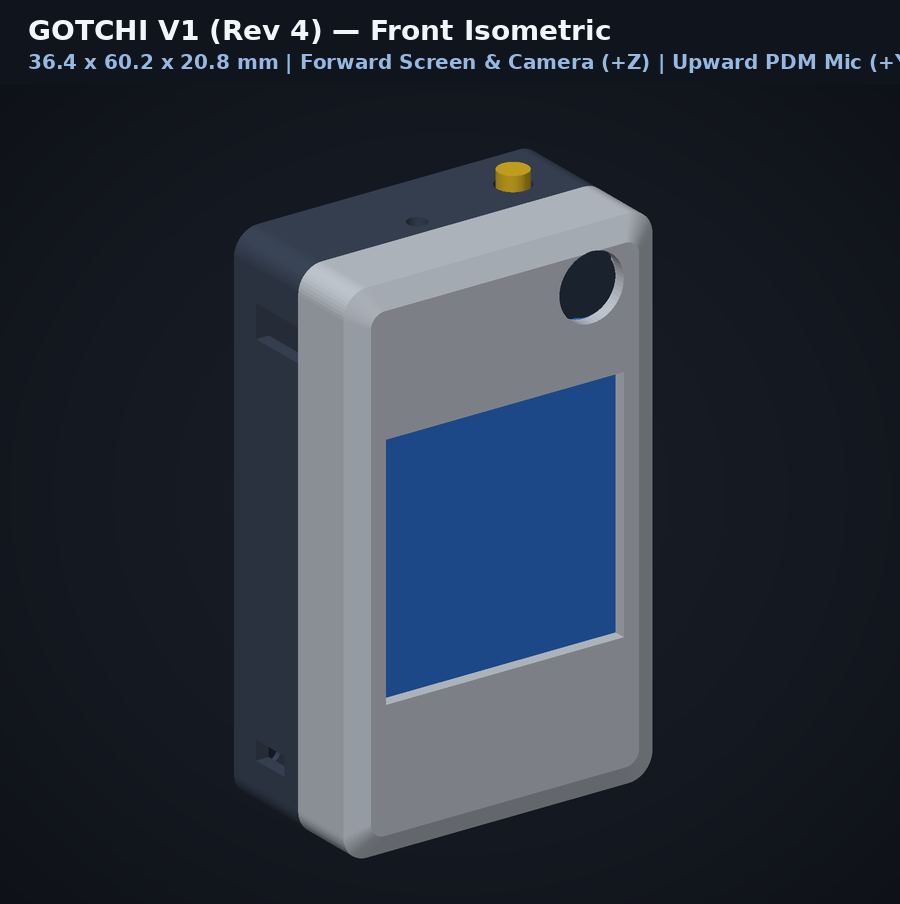
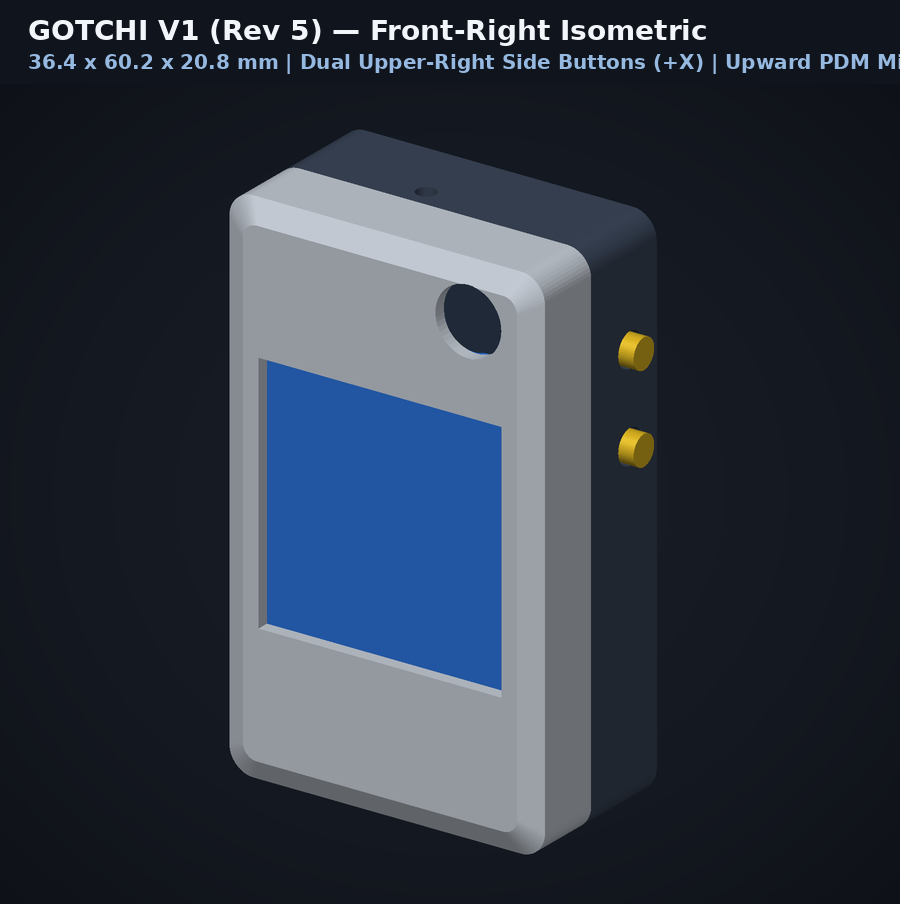
feat(cad): move both buttons to upper-right side wall (+X) and verify 0.00 mm3 switch clearance

diff --git a/cad/render_labeled.py b/cad/render_labeled.py
@@ -345,7 +345,7 @@ def generate_top_labeled(p, out_path):
     lr = int((p["cam_lens_d"] / 2.0) * scale)
     d.ellipse([lcx - lr, lcy - lr, lcx + lr, lcy + lr], fill=(30, 41, 59), outline=(56, 189, 248), width=3)
 
-    d.rectangle(rect_mm(p["ptt_cx"] - 3.0, p["y_max"] - p["wall"] - 2.0, p["ptt_cx"] + 3.0, p["y_max"] + 0.8), fill=(253, 224, 71), outline=(161, 98, 7), width=2)
+    d.rectangle(rect_mm(iw - 2.0, p["ptt_cy"] - 3.0, hw + 0.8, p["ptt_cy"] + 3.0), fill=(253, 224, 71), outline=(161, 98, 7), width=2)
     d.rectangle(rect_mm(iw - 2.0, p["snap_cy"] - 3.0, hw + 0.8, p["snap_cy"] + 3.0), fill=(253, 224, 71), outline=(161, 98, 7), width=2)
     d.rectangle(rect_mm(-hw - 0.5, p["usb_cy"] - p["usb_h"]/2, -iw + 0.5, p["usb_cy"] + p["usb_h"]/2), fill=(56, 189, 248), outline=(2, 132, 199), width=2)
     d.rectangle(rect_mm(-hw - 0.5, p["sw_cy"] - p["sw_slot_y"]/2, -iw + 1.5, p["sw_cy"] + p["sw_slot_y"]/2), fill=(45, 212, 191), outline=(15, 118, 110), width=2)
@@ -373,11 +373,11 @@ def generate_top_labeled(p, out_path):
         ("Display 8-Pin PH2.0 Header (in chin below battery)", pt(-6.0, -22.2), "L", 925),
         ("Bottom M2 Screw Bosses (index through PCB holes)", pt(-p["boss_x_bot"], p["boss_y_bot"]), "L", 1025),
 
-        ("BTN_TOP: Push-to-Talk (+Y top-right shoulder)", pt(p["ptt_cx"], p["y_max"]), "R", 155),
-        ("Forward-Firing Camera (+Z lens aperture, dia 7.6mm)", pt(p["cam_cx"] + 2.0, p["cam_cy"]), "R", 265),
-        ("90-deg Curved Camera FPC Ribbon (exits Sense +X)", pt(5.2, 26.9), "R", 375),
-        ("BTN_BOT: Mode / Snap (+X right wall, y=+12.0mm)", pt(hw, p["snap_cy"]), "R", 495),
-        ("Waveshare 1.54\" V2 PCB (33x48mm, standoffs removed)", pt(16.5, -2.0), "R", 615),
+        ("Forward-Firing Camera (+Z lens aperture, dia 7.6mm)", pt(p["cam_cx"] + 2.0, p["cam_cy"]), "R", 155),
+        ("90-deg Curved Camera FPC Ribbon (exits Sense +X)", pt(5.2, 26.9), "R", 265),
+        ("BTN_TOP: Voice / Live (+X upper-right side, y=+20.5mm)", pt(hw, p["ptt_cy"]), "R", 385),
+        ("BTN_BOT: Camera / Burst (+X upper-right side, y=+10.5mm)", pt(hw, p["snap_cy"]), "R", 505),
+        ("Waveshare 1.54\" V2 PCB (33x48mm, standoffs removed)", pt(16.5, -2.0), "R", 625),
         ("Speaker 15x10x3.5mm + 5-Slot Rear Grille", pt(p["spk_cx"] + 4.0, p["spk_cy"]), "R", 785),
         ("Bottom-Right M2 Boss (x=+14.0, y=-23.0mm)", pt(p["boss_x_bot"], p["boss_y_bot"]), "R", 945),
     ]
@@ -406,8 +406,8 @@ def generate_side_labeled(p, out_path):
     f_title, f_sub, f_lbl, f_sm = load_fonts()
 
     d.rectangle([0, 0, W, 92], fill=(20, 26, 36))
-    d.text((32, 16), "GOTCHI V1 (Rev 4) — Side Cross-Section View (60.2 mm Height x 20.8 mm Depth)", fill=(242, 246, 250), font=f_title)
-    d.text((32, 54), "Stepped Z-Stack: Battery Nestles Behind Flat Upper 40mm of Display PCB; Tall PH2.0 Plug Sits Below Battery", fill=(150, 185, 225), font=f_sub)
+    d.text((32, 16), "GOTCHI V1 (Rev 5) — Side Cross-Section View (60.2 mm Height x 20.8 mm Depth)", fill=(242, 246, 250), font=f_title)
+    d.text((32, 54), "Stepped Z-Stack: Dual Upper-Right Side Buttons (y=+20.5 & +10.5mm at z=-15.2mm) Behind Battery Plane", fill=(150, 185, 225), font=f_sub)
 
     cy_px = 910
     cz_px = 390
@@ -442,6 +442,8 @@ def generate_side_labeled(p, out_path):
 
     d.rectangle(rect_yz(p["amp_cy"] - p["amp_h"]/2, p["amp_z1"], p["amp_cy"] + p["amp_h"]/2, p["amp_z0"]), fill=(216, 180, 254), outline=(107, 33, 168), width=3)
     d.rectangle(rect_yz(p["spk_cy"] - p["spk_h"]/2, p["spk_z1"], p["spk_cy"] + p["spk_h"]/2, p["spk_z0"]), fill=(252, 165, 165), outline=(185, 28, 28), width=3)
+    d.rectangle(rect_yz(p["ptt_cy"] - 3.0, p["ptt_cz"] - 3.0, p["ptt_cy"] + 3.0, p["ptt_cz"] + 0.8), fill=(253, 224, 71), outline=(161, 98, 7), width=2)
+    d.rectangle(rect_yz(p["snap_cy"] - 3.0, p["snap_cz"] - 3.0, p["snap_cy"] + 3.0, p["snap_cz"] + 0.8), fill=(253, 224, 71), outline=(161, 98, 7), width=2)
 
     d.rectangle(rect_yz(p["xiao_y0"], p["xiao_z1"], p["xiao_y0"] + 4.0, p["xiao_z0"]), fill=(187, 247, 208), outline=(21, 128, 61), width=2)
     d.rectangle(rect_yz(p["xiao_y0"] + 4.0, p["xiao_z1"], p["xiao_y1"], p["xiao_z0"]), fill=(134, 239, 172), outline=(22, 101, 52), width=2)
@@ -471,7 +473,7 @@ def generate_side_labeled(p, out_path):
         ("Display Rear ZIF Connector (z = -4.1..-5.9 mm)", pt(20.2, -5.0), "R", 370),
         ("XIAO ESP32S3 + Sense Stack (horizontal in Crown)", pt(26.5, -8.5), "R", 485),
         ("UPWARD PDM Microphone + Top Acoustic Port (+Y)", pt(31.8, -11.2), "R", 605),
-        ("Top-Shoulder Push-to-Talk Button (+Y at z = -13.2 mm)", pt(32.2, -13.2), "R", 725),
+        ("Dual Upper-Right Side Buttons (+X at y=+20.5 & +10.5, z=-15.2mm)", pt(p["ptt_cy"], p["ptt_cz"]), "R", 725),
         ("XIAO Support Shelf (y = +21.9..+22.7 mm)", pt(22.3, -15.5), "R", 845),
     ]
 
@@ -519,8 +521,8 @@ def generate_turntable_gif(assembled_scene, open_scene, out_gif_path, n_frames=3
         canvas.paste(im_right, (460, 76))
         d = ImageDraw.Draw(canvas)
         d.line([(460, 76), (460, 576)], fill=(45, 55, 72), width=2)
-        d.text((22, 12), "GOTCHI V1 (Rev 4) — 36.4 x 60.2 x 20.8 mm (Per-Pixel Z-Buffer 360° Turntable)", fill=(242, 246, 250), font=f_sub)
-        d.text((22, 42), "Left: Assembled Case (+Z Screen & Cam, +Y Upward Mic)   |   Right: Internal Non-Cubic 3D Stack", fill=(148, 182, 224), font=f_sm)
+        d.text((22, 12), "GOTCHI V1 (Rev 5) — 36.4 x 60.2 x 20.8 mm (Per-Pixel Z-Buffer 360° Turntable)", fill=(242, 246, 250), font=f_sub)
+        d.text((22, 42), "Left: Assembled Case (Dual Upper-Right Side Buttons)   |   Right: Internal Non-Cubic 3D Stack", fill=(148, 182, 224), font=f_sm)
 
         # Quantize with adaptive palette for clean GIF playback
         frames.append(canvas.quantize(colors=256, method=Image.Quantize.MEDIANCUT))
@@ -552,8 +554,8 @@ def main():
     comps = bc.build_internal_3d_components()
 
     cap_ptt = cap.copy()
-    cap_ptt.apply_transform(trimesh.transformations.rotation_matrix(-math.pi / 2.0, [1, 0, 0]))
-    cap_ptt.apply_translation([p["ptt_cx"], p["y_max"] - 2.2, p["ptt_cz"]])
+    cap_ptt.apply_transform(trimesh.transformations.rotation_matrix(math.pi / 2.0, [0, 1, 0]))
+    cap_ptt.apply_translation([p["W_out"] / 2.0 - 2.2, p["ptt_cy"], p["ptt_cz"]])
 
     cap_snap = cap.copy()
     cap_snap.apply_transform(trimesh.transformations.rotation_matrix(math.pi / 2.0, [0, 1, 0]))
@@ -568,6 +570,9 @@ def main():
         "camera_forward_flex": (0.96, 0.44, 0.16),
         "speaker_1510": (0.90, 0.26, 0.26),
         "amp_max98357a": (0.66, 0.34, 0.90),
+        "btn_top_tactile": (0.95, 0.78, 0.15),
+        "btn_bot_tactile": (0.95, 0.78, 0.15),
+        "spdt_slide_switch": (0.18, 0.83, 0.75),
     }
 
     assembled_scene = [
@@ -595,24 +600,24 @@ def main():
         (translate_mesh(comps["battery_803040"], dz=-2.0), comp_styles["battery_803040"]),
         (translate_mesh(comps["amp_max98357a"], dz=-9.0), comp_styles["amp_max98357a"]),
         (translate_mesh(comps["speaker_1510"], dz=-9.0), comp_styles["speaker_1510"]),
-        (translate_mesh(cap_ptt, dy=8.0, dz=-16.0), (0.95, 0.78, 0.15)),
+        (translate_mesh(cap_ptt, dx=8.0, dz=-16.0), (0.95, 0.78, 0.15)),
         (translate_mesh(cap_snap, dx=8.0, dz=-16.0), (0.95, 0.78, 0.15)),
         (translate_mesh(back, dz=-18.0), shell_back_rgb),
     ]
 
-    # 1. front_iso.png
-    im = rasterize_scene_zbuffer(assembled_scene, elev_deg=24, azim_deg=-35, width=900, height=820, ssaa=2)
+    # 1. front_iso.png (azim_deg=35 shows +Z front face and +X right-side buttons)
+    im = rasterize_scene_zbuffer(assembled_scene, elev_deg=24, azim_deg=35, width=900, height=820, ssaa=2)
     save_titled_render(
         im, os.path.join(ren_dir, "front_iso.png"),
-        "GOTCHI V1 (Rev 4) — Front Isometric",
-        "36.4 x 60.2 x 20.8 mm | Forward Screen & Camera (+Z) | Upward PDM Mic (+Y) | Left USB-C (-X)"
+        "GOTCHI V1 (Rev 5) — Front-Right Isometric",
+        "36.4 x 60.2 x 20.8 mm | Dual Upper-Right Side Buttons (+X) | Upward PDM Mic (+Y)"
     )
 
     # 2. back_iso.png
     im = rasterize_scene_zbuffer(assembled_scene, elev_deg=24, azim_deg=145, width=900, height=820, ssaa=2)
     save_titled_render(
         im, os.path.join(ren_dir, "back_iso.png"),
-        "GOTCHI V1 (Rev 4) — Back Isometric",
+        "GOTCHI V1 (Rev 5) — Back Isometric",
         "Flush Twin-Rail Slide-In Groove (Clip / Kickstand) | 4x M2 Corners | 5-Slot Speaker Grille"
     )
 
@@ -620,24 +625,24 @@ def main():
     im = rasterize_scene_zbuffer(assembled_scene, elev_deg=0, azim_deg=0, width=900, height=820, ssaa=2)
     save_titled_render(
         im, os.path.join(ren_dir, "front_straight.png"),
-        "GOTCHI V1 (Rev 4) — Front Orthographic",
+        "GOTCHI V1 (Rev 5) — Front Orthographic",
         "Slim 4.2 mm Side Bezels | 28x28 mm E-Paper Window | Upper-Right Forward Camera Aperture"
     )
 
     # 4. back_layout.png
-    im = rasterize_scene_zbuffer(open_scene, elev_deg=26, azim_deg=-35, width=900, height=820, ssaa=2)
+    im = rasterize_scene_zbuffer(open_scene, elev_deg=26, azim_deg=35, width=900, height=820, ssaa=2)
     save_titled_render(
         im, os.path.join(ren_dir, "back_layout.png"),
-        "GOTCHI V1 (Rev 4) — Internal 3D Multi-Tier Packaging",
-        "Blue: Display+PH2.0 | Orange: Forward Cam+90° FPC | Green: Horizontal XIAO+Upward Mic | Gold: 803040 LiPo"
+        "GOTCHI V1 (Rev 5) — Internal 3D Multi-Tier Packaging",
+        "Yellow: Dual Upper-Right Side Buttons (+X) | Blue: Display | Green: XIAO+Mic | Gold: 803040 LiPo"
     )
 
     # 5. exploded.png
-    im = rasterize_scene_zbuffer(exploded_scene, elev_deg=22, azim_deg=-38, width=900, height=820, ssaa=2)
+    im = rasterize_scene_zbuffer(exploded_scene, elev_deg=22, azim_deg=38, width=900, height=820, ssaa=2)
     save_titled_render(
         im, os.path.join(ren_dir, "exploded.png"),
-        "GOTCHI V1 (Rev 4) — Exploded Multi-Tier Stack",
-        "Front Bezel -> Display + Forward Camera -> XIAO + 803040 Battery -> Amp + Speaker -> Back Shell"
+        "GOTCHI V1 (Rev 5) — Exploded Multi-Tier Stack",
+        "Front Bezel -> Display + Forward Camera -> XIAO + 803040 Battery -> Amp + Speaker + Side Buttons -> Back Shell"
     )
 
     # 6. top_labeled.png & 7. side_labeled.png

diff --git a/cad/build_case.py b/cad/build_case.py
@@ -1,7 +1,7 @@
 #!/usr/bin/env python3
 """
-GOTCHI V1 Printable Enclosure — Revision 4 (Slim Forward-Firing Multi-Tier Architecture)
-========================================================================================
+GOTCHI V1 Printable Enclosure — Revision 5 (Dual Upper-Right Side Buttons & Full Switch Collision Verification)
+===============================================================================================================
 Outer envelope: 36.4 x 60.2 x 20.8 mm (45.6 cm^3 — 42.5% smaller volume than Rev 1's
 38.0 x 72.0 x 29.0 mm / 79.3 cm^3 box, 8.2 mm thinner in Z, 11.8 mm shorter in Y,
 with slim 4.2 mm side bezels around the 28.0 x 28.0 mm active screen window).
@@ -26,19 +26,15 @@ Key Architectural & Packaging Improvements:
      1.5 mm acoustic waveguide (dia 2.2 mm) in the top wall.
    - The XIAO USB-C port exits cleanly through the left side wall (-X at y = +24.8 mm).
 
-3. Non-Cubic Multi-Feature Component Modeling & Stepped Z-Stack (20.8 mm Total Depth):
-   - Removing the 4 factory M2 brass hex standoffs from the Waveshare 1.54" PCB reduces
-     the upper 40.0 mm of the display module to a 2.7 mm flat glass+PCB laminate
-     (z = -1.45..-4.1 mm) plus 1.4 mm SMD clearance (z = -4.1..-5.5 mm).
-   - The 4.8 mm tall 8-pin PH2.0 JST header is localized to the bottom 6.4 mm edge of the
-     display PCB (y = -25.4..-19.0 mm, z = -4.1..-8.7 mm).
-   - The 803040 LiPo battery (30.0 x 40.0 x 8.0 mm) nestles directly behind the flat upper
-     40.0 mm of the display PCB (y = -18.2..+21.8 mm, z = -6.2..-14.2 mm), while the tall
-     PH2.0 connector sits in the bottom chin strip below the battery — saving ~8.0 mm of Z depth.
-   - A 16.5 x 4.8 x 1.8 mm underside bezel relief pocket (y = +17.8..+22.6 mm) protects
-     the display's folded top 24-pin FPC ribbon from clamping pressure.
-   - Rear Slim Audio Bay (z = -15.2..-19.2 mm): MAX98357A class-D amp (19.0 x 17.8 x 3.0 mm)
-     and 15 x 10 x 3.5 mm speaker sit behind the battery/PH2.0 layer with a 5-slot rear grille.
+3. Dual Upper-Right Side Buttons (+X Right Wall):
+   - Both tactile buttons (`BTN_TOP` for Voice/Live at `y = +20.5 mm`, `BTN_BOT` for Camera/Burst
+     at `y = +10.5 mm`) sit on the upper-right side wall (`+X`) at `z = -15.2 mm` (behind the
+     battery plane `z = -6.2..-14.2 mm` and in the open right-side corridor beside the left-shifted
+     `MAX98357A` amp), leaving the top wall completely clean except for the microphone port.
+   - Both `6x6x5mm` tactile switches (`btn_top_tactile`, `btn_bot_tactile`) and the `Mini SPDT`
+     power slide switch (`spdt_slide_switch`) are modeled as explicit 3D meshes in
+     `build_internal_3d_components()` and verified for `0.00 mm^3` collision against all components
+     and enclosure shells.
 
 Usage:
     python3 cad/build_case.py --out cad
@@ -106,7 +102,6 @@ P = dict(
     # 3. Top Crown (y = +22.8 to +31.4 mm):
     #    Left side (x = -16.5 to +4.5 mm): Horizontal XIAO ESP32S3 + Sense Stack (Sense PCB + PDM Mic facing UP +Y)
     #    Right-front (x = +6.0 to +14.5 mm): Forward-firing Camera (+Z) fed by 90-deg FPC flex ribbon from Sense x=+4.5mm
-    #    Right-rear (x = +7.5 to +13.5 mm): Top-shoulder PTT tactile button (+Y)
     xiao_x0=-16.5,
     xiao_x1=4.5,    # 21.0 mm length along X (USB-C at left wall x=-16.5; camera FPC header at x=+4.5)
     xiao_y0=22.8,
@@ -150,13 +145,13 @@ P = dict(
     spk_z1=-19.2,
 
     # 6. Controls:
-    # BTN_TOP (PTT): Top-right shoulder (+Y top wall, behind forward camera at z = -13.2 mm)
-    ptt_cx=10.2,
-    ptt_cz=-13.2,
+    # Both BTN_TOP (PTT/Voice) and BTN_BOT (Camera/Burst) stacked on the Upper-Right Side Wall (+X wall)
+    # at z = -15.2 mm (behind battery plane z = -6.2..-14.2 mm, in the clear right-rear corridor x = +11.7..+16.7 mm)
+    ptt_cy=20.5,    # Upper-right side button (BTN_TOP — Voice / Live)
+    ptt_cz=-15.2,
+    snap_cy=10.5,   # Lower-right side button (BTN_BOT — Camera / 5-Photo Burst, 10.0 mm below BTN_TOP)
+    snap_cz=-15.2,
     btn_hole_d=3.9,
-    # BTN_BOT (Mode/Snap): Upper-right side wall (+X wall)
-    snap_cy=12.0,
-    snap_cz=-13.2,
     # Mini SPDT Slide Switch: Lower-left side wall (-X wall)
     sw_cy=-20.5,
     sw_cz=-13.5,
@@ -350,8 +345,8 @@ def build_back_shell():
     # 3. Battery retention side rails & rear standoffs
     adds.append(make_box(-16.2, -15.1, p['bat_y0'], p['bat_y1'], -14.5, p['split_z']))
     adds.append(make_box(15.1, 16.2, p['bat_y0'], p['bat_y1'], -14.5, p['split_z']))
-    adds.append(make_box(-14.0, 14.0, 10.0, 12.0, -15.1, -14.3))
-    adds.append(make_box(-14.0, 14.0, 18.0, 20.0, -15.1, -14.3))
+    adds.append(make_box(-14.0, 11.4, 10.0, 12.0, -15.1, -14.3))
+    adds.append(make_box(-14.0, 11.4, 18.0, 20.0, -15.1, -14.3))
 
     # 4. Speaker pocket frame on inside of back wall (15.0 x 10.0 x 3.5 mm speaker)
     sx0, sx1 = p['spk_cx'] - p['spk_w']/2 - 0.3, p['spk_cx'] + p['spk_w']/2 + 0.3
@@ -360,17 +355,17 @@ def build_back_shell():
     spk_inner = make_box(sx0, sx1, sy0, sy1, -p['D_out'] + p['back_wall'], -15.0)
     adds.append(trimesh.boolean.difference([spk_outer, spk_inner], engine='manifold'))
 
-    # 5. Top-shoulder PTT button cradle (+Y top wall at x = ptt_cx, z = ptt_cz)
-    px, pz = p['ptt_cx'], p['ptt_cz']
-    ptt_outer = make_box(px - 4.0, px + 4.0, p['y_max'] - p['wall'] - 5.0, p['y_max'] - p['wall'] + 0.1, pz - 4.0, pz + 4.0)
-    ptt_inner = make_box(px - 3.1, px + 3.1, p['y_max'] - p['wall'] - 4.0, p['y_max'] + 0.5, pz - 3.1, pz + 3.1)
+    # 5. Upper-Right Side BTN_TOP (PTT / Voice) cradle (+X right wall at y = ptt_cy, z = ptt_cz)
+    py, pz = p['ptt_cy'], p['ptt_cz']
+    ptt_outer = make_box(iw / 2.0 - 5.0, iw / 2.0 + 0.1, py - 4.0, py + 4.0, pz - 3.1, pz + 0.9)
+    ptt_inner = make_box(iw / 2.0 - 4.0, iw / 2.0 + 0.5, py - 3.1, py + 3.1, pz - 3.2, pz + 1.0)
     adds.append(trimesh.boolean.difference([ptt_outer, ptt_inner], engine='manifold'))
-    cutters.append(make_cyl_y(p['btn_hole_d'] / 2.0, p['y_max'] - 4.0, p['y_max'] + 1.0, cx=px, cz=pz))
+    cutters.append(make_cyl_x(p['btn_hole_d'] / 2.0, iw / 2.0 - 1.0, p['W_out'] / 2.0 + 1.0, cy=py, cz=pz))
 
-    # 6. Side Mode/Snap button cradle (+X right wall at y = snap_cy, z = snap_cz)
+    # 6. Upper-Right Side BTN_BOT (Camera / Burst) cradle (+X right wall at y = snap_cy, z = snap_cz)
     sy, sz = p['snap_cy'], p['snap_cz']
-    snap_outer = make_box(iw / 2.0 - 5.0, iw / 2.0 + 0.1, sy - 4.0, sy + 4.0, sz - 4.0, sz + 4.0)
-    snap_inner = make_box(iw / 2.0 - 4.0, iw / 2.0 + 0.5, sy - 3.1, sy + 3.1, sz - 3.1, sz + 3.1)
+    snap_outer = make_box(iw / 2.0 - 5.0, iw / 2.0 + 0.1, sy - 4.0, sy + 4.0, sz - 3.1, sz + 0.9)
+    snap_inner = make_box(iw / 2.0 - 4.0, iw / 2.0 + 0.5, sy - 3.1, sy + 3.1, sz - 3.2, sz + 1.0)
     adds.append(trimesh.boolean.difference([snap_outer, snap_inner], engine='manifold'))
     cutters.append(make_cyl_x(p['btn_hole_d'] / 2.0, iw / 2.0 - 1.0, p['W_out'] / 2.0 + 1.0, cy=sy, cz=sz))
 
@@ -487,8 +482,9 @@ def build_kickstand():
 
 
 def build_internal_3d_components():
-    """Build true multi-feature 3D component meshes (non-cubic) and verify zero collisions."""
+    """Build true multi-feature 3D component meshes (including switches) and verify zero collisions."""
     p = P
+    iw = p['W_out'] - 2 * p['wall']  # 33.4 mm
     comps = {}
 
     # 1. Waveshare 1.54" V2 Composite Module (PCB with 4 corner M2 holes + front glass + top FPC fold + rear ZIF + bottom PH2.0)
@@ -521,6 +517,21 @@ def build_internal_3d_components():
 
     # 6. MAX98357A Amp (19 x 17.8 x 3.0 mm)
     comps['amp_max98357a'] = make_box(p['amp_cx'] - p['amp_w']/2, p['amp_cx'] + p['amp_w']/2, p['amp_cy'] - p['amp_h']/2, p['amp_cy'] + p['amp_h']/2, p['amp_z1'], p['amp_z0'])
+
+    # 7. Upper-Right Side BTN_TOP 6x6x5mm Tactile Switch (+X wall at y = ptt_cy, z = ptt_cz)
+    ptt_body = make_box(iw / 2.0 - 3.6, iw / 2.0 - 0.1, p['ptt_cy'] - 3.0, p['ptt_cy'] + 3.0, p['ptt_cz'] - 3.0, p['ptt_cz'] + 0.8)
+    ptt_stem = make_cyl_x(1.6, iw / 2.0 - 0.2, iw / 2.0 + 1.3, cy=p['ptt_cy'], cz=p['ptt_cz'])
+    comps['btn_top_tactile'] = trimesh.boolean.union([ptt_body, ptt_stem], engine='manifold')
+
+    # 8. Upper-Right Side BTN_BOT 6x6x5mm Tactile Switch (+X wall at y = snap_cy, z = snap_cz)
+    snap_body = make_box(iw / 2.0 - 3.6, iw / 2.0 - 0.1, p['snap_cy'] - 3.0, p['snap_cy'] + 3.0, p['snap_cz'] - 3.0, p['snap_cz'] + 0.8)
+    snap_stem = make_cyl_x(1.6, iw / 2.0 - 0.2, iw / 2.0 + 1.3, cy=p['snap_cy'], cz=p['snap_cz'])
+    comps['btn_bot_tactile'] = trimesh.boolean.union([snap_body, snap_stem], engine='manifold')
+
+    # 9. Lower-Left Mini SPDT Slide Switch (-X wall at y = sw_cy, z = sw_cz)
+    sw_body = make_box(-iw / 2.0 + 0.1, -iw / 2.0 + 3.6, p['sw_cy'] - 1.75, p['sw_cy'] + 1.75, p['sw_cz'] - 4.25, p['sw_cz'] + 4.25)
+    sw_knob = make_box(-iw / 2.0 - 1.3, -iw / 2.0 + 0.2, p['sw_cy'] - 0.8, p['sw_cy'] + 0.8, p['sw_cz'] - 1.0, p['sw_cz'] + 1.0)
+    comps['spdt_slide_switch'] = trimesh.boolean.union([sw_body, sw_knob], engine='manifold')
 
     return comps
 
